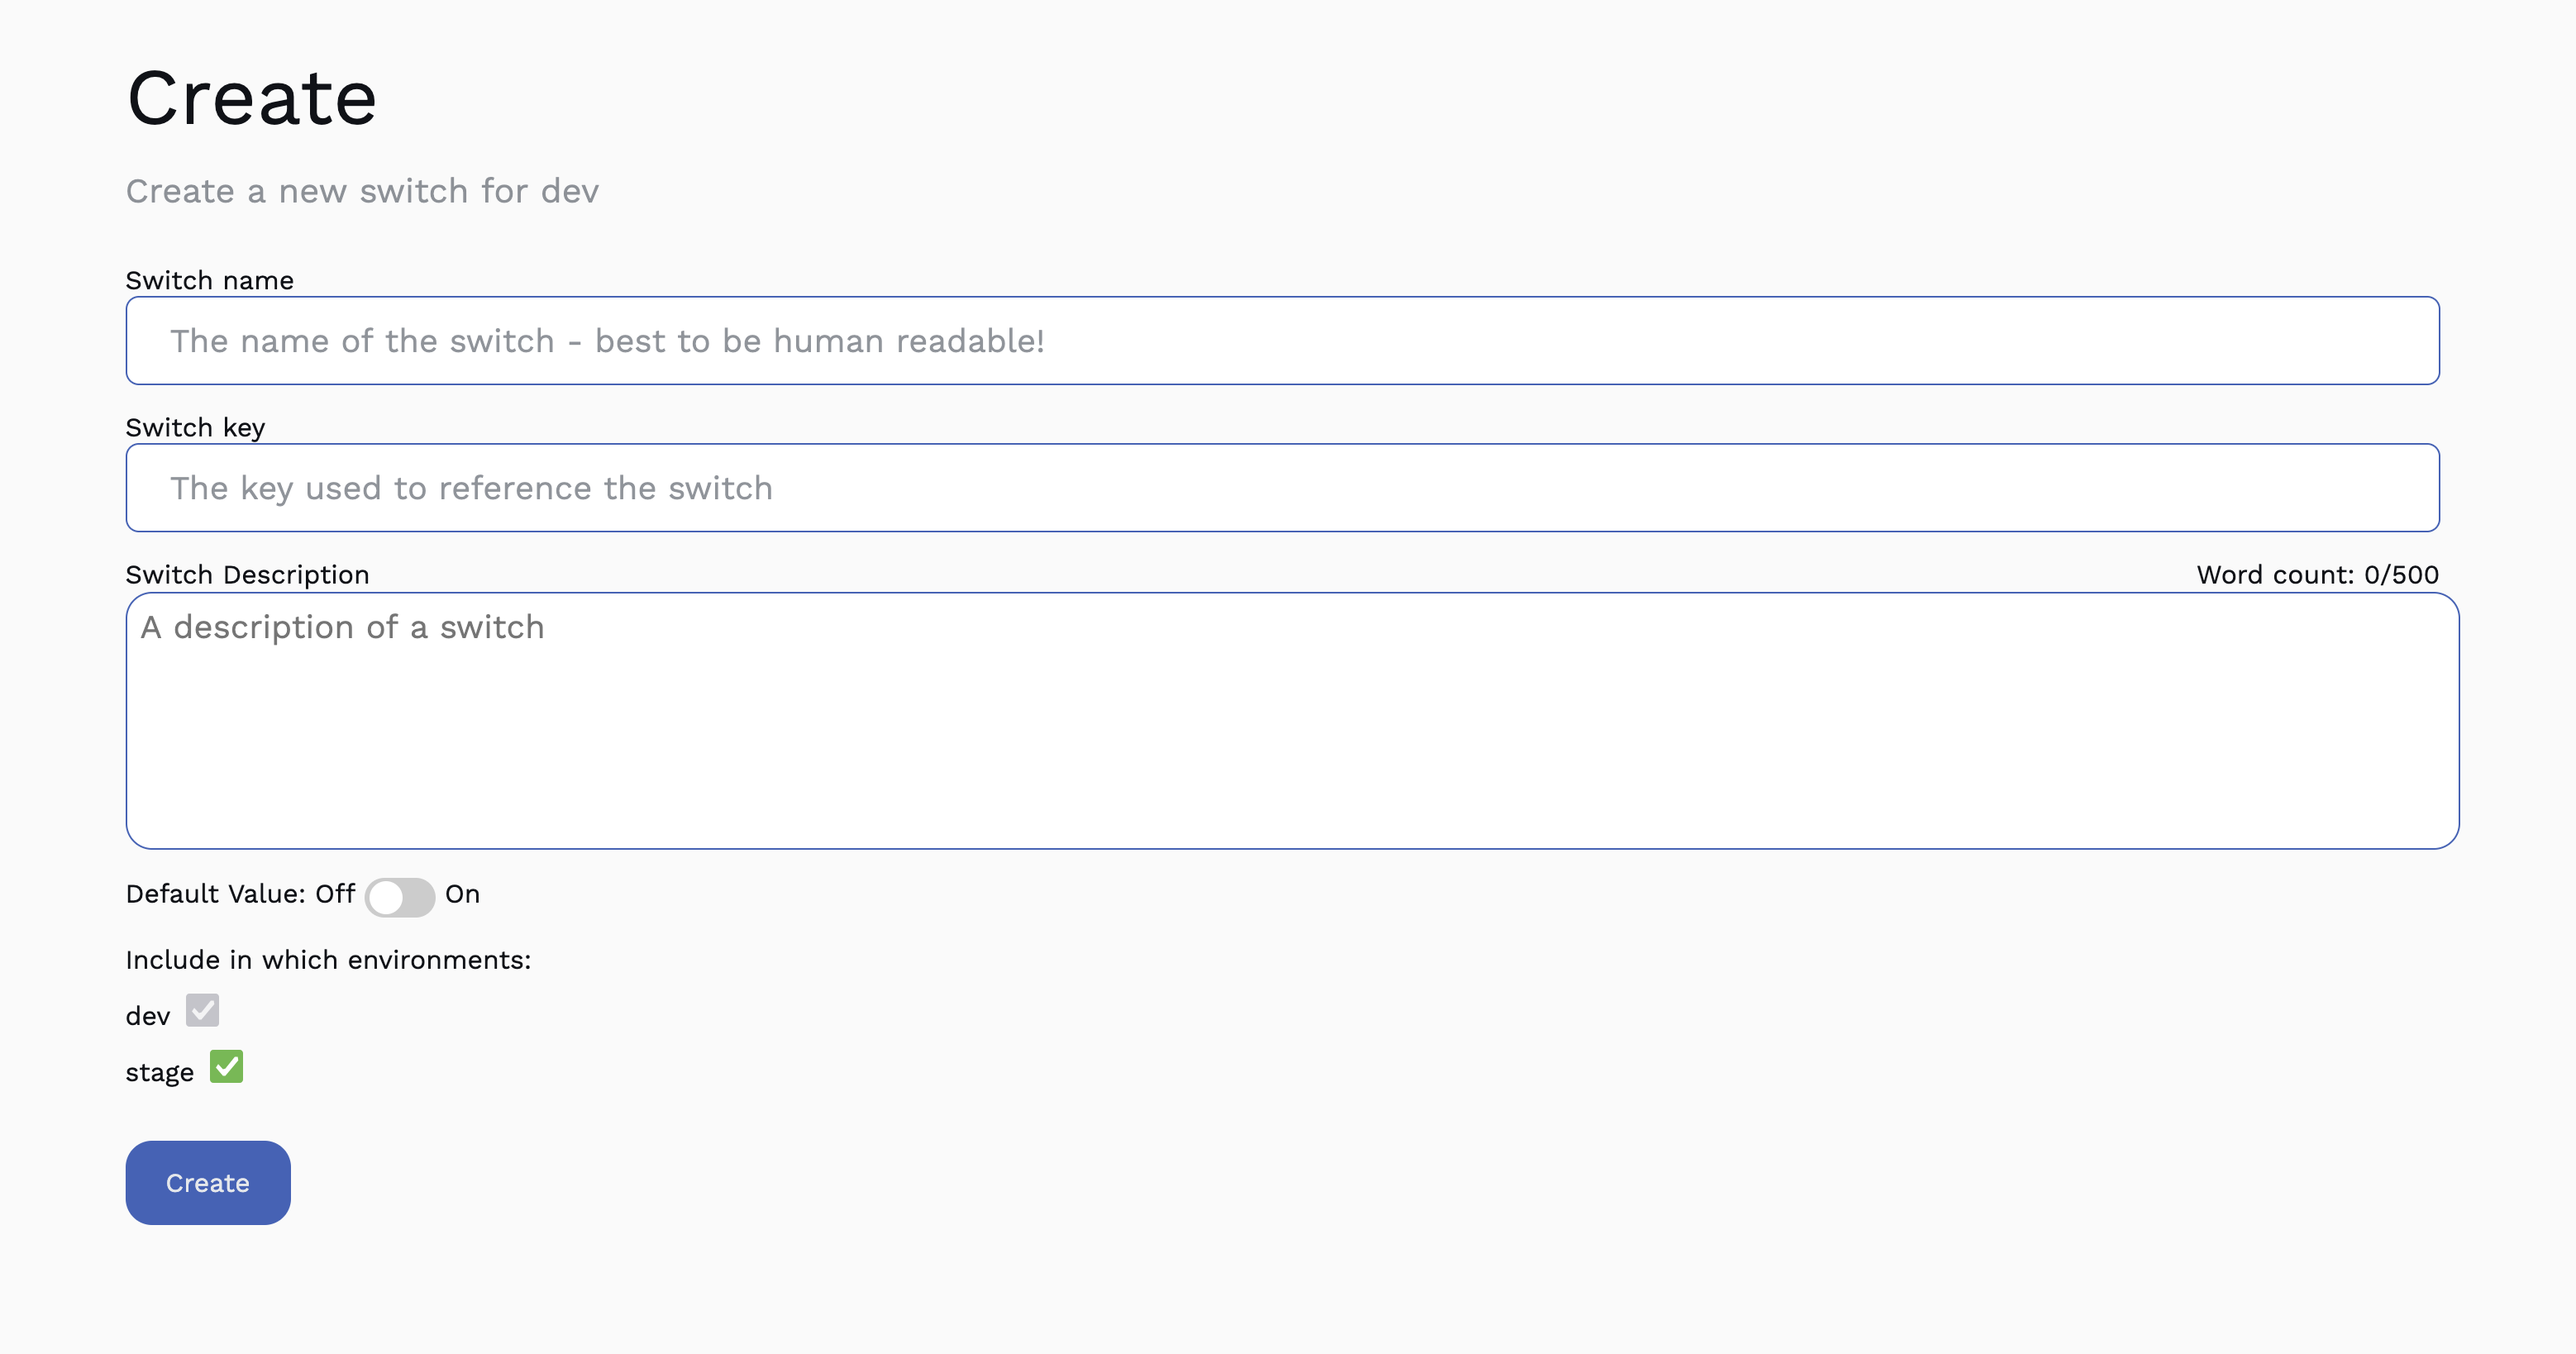
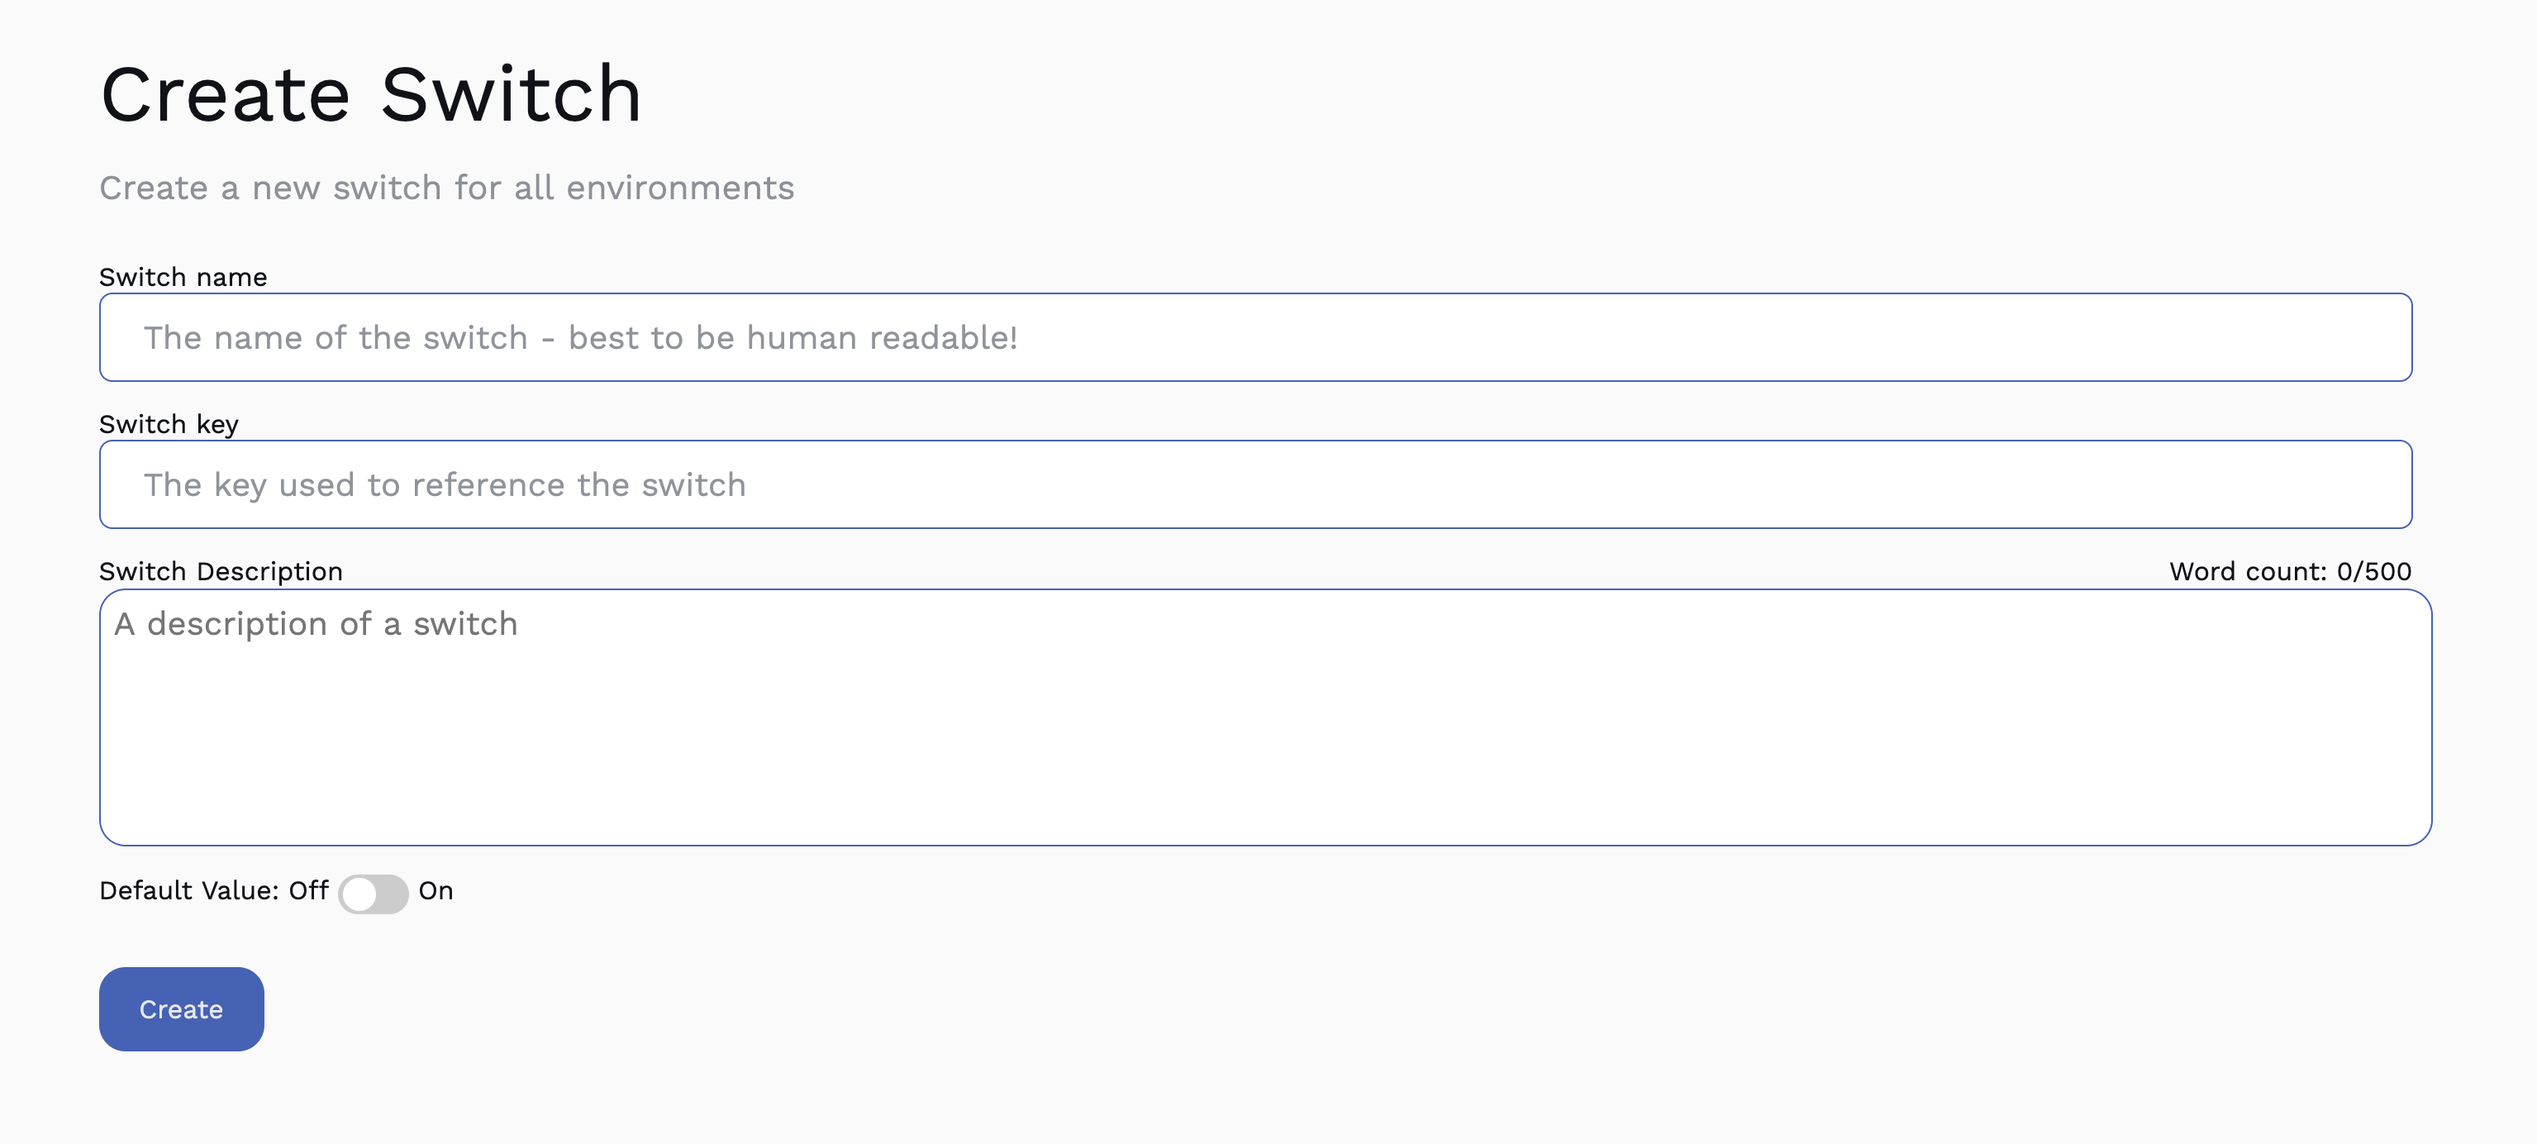
Update creating your first switch

diff --git a/content/docs/feature-switches/creating-your-first-switch.md b/content/docs/feature-switches/creating-your-first-switch.md
@@ -11,7 +11,7 @@ In this doc, we'll go through how you can create your first, simple switch. A sw
 To create your first switch, first you must ensure you've created at least one [environment]({{<ref "../environments.md">}}).
 
 ## Creating the feature switch
-Head to Dashboard, and select Feature Switches. Your default environment will be loaded. If that's the correct environment, then yay! If it's not, use the drop down under the search bar to switch to the environment you want to use.
+Head to Dashboard, and select Feature Switches. Your default environment will be loaded. The environment doesn't matter, as the switch will be create / duplicated across all environments.
 
 Click create, and you'll be presented with a Create page:
 
@@ -22,20 +22,17 @@ There are then 5 sections that need to be filled out:
 2. **Switch Key**: this key must be unique, and will be used within your code base. We recommend making it a positive name, so something like "photoUploadEnabled", so in your code it flows better - `if(photoUploadEnabled)`. _**This cannot be changed**_.
 3. **Description**: a short description of the switch. Purely to help your team understand what this switch is for.
 4. **Default value**: A boolean value of the switch.
-5. Which environments you'd like to save this switch to. By default, it'll create this switch in all environments. However, you can elect to not include an environment. _**Once saved this cannot be changed**_.
 
 For example, if we were to create a switch around a fake new feature like being able to upload a photo, we'd fill it out like so:
 1. Setting the **Switch Name** to "Enable photo upload"
 2. Setting the **Switch Key** to `photoUploadEnabled`
 3. Setting the **Description** to "Enables a user to upload a photo", or leave it blank
 4. Setting the **Default value** to `false`. We'll be changing this later
-5. We'll also leave the environments alone too, as we're happy for them to be created everywhere
 
 Hit the save button, and we'll be redirected to the newly created feature switch.
 
 ![A single feature switch](/a-feature-switch-screenshot.png)
 
-You should see the name of your switch and the environment it's been created in.
 
 ## Using it in code - the Backend
 ### Creating an API token
@@ -50,7 +47,7 @@ There are a number of ways to request your switches value. Check out the [SDK]({
 Now we've created the switch, we need to reference it in our code:
 
 ```JavaScript
-// can set to either stage or dev for this example, as this switch was created in all environments
+// Can set whatever environment you have - the switch exists in all of them.
 const manager = new FeatureSwitchManager("{your-api-key-here}", "dev");
 
 export const uploadPhoto = async (request) => {
